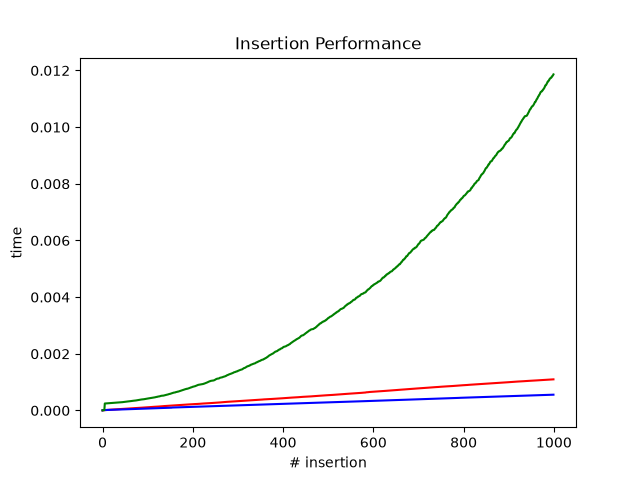
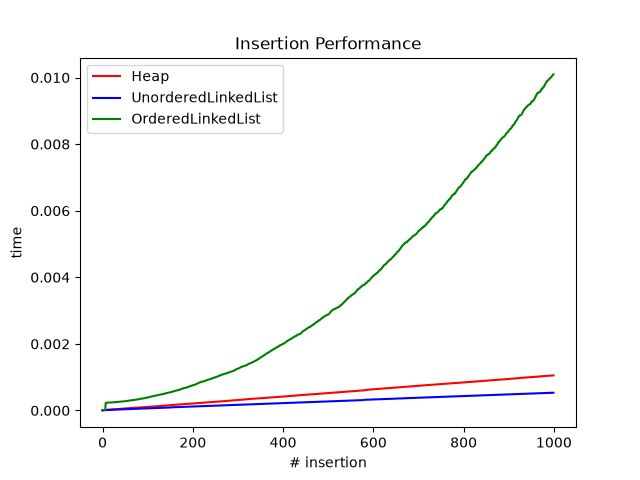
added legend to graph

diff --git a/PicchioniLabAlg.py b/PicchioniLabAlg.py
@@ -250,9 +250,8 @@ for e in test:
     max_heap.insert(e)
     end = timer()
     time_per_operation.append(end - start)
-print(len(number_of_operation))
-print(len(time_per_operation))
-plt.plot(number_of_operation, time_per_operation, "r")
+
+plt.plot(number_of_operation, time_per_operation, "r", label="Heap")
 plt.title("Insertion Performance")
 plt.xlabel("# insertion")
 plt.ylabel("time")
@@ -264,7 +263,7 @@ for e in test:
     unordered_list.insert(e)
     end = timer()
     time_per_operation.append(end - start)
-plt.plot(number_of_operation, time_per_operation, "b")
+plt.plot(number_of_operation, time_per_operation, "b", label="UnorderedLinkedList")
 
 ordered_list = OrderedLinkedList()
 time_per_operation = []
@@ -273,7 +272,7 @@ for e in test:
     ordered_list.insert(e)
     end = timer()
     time_per_operation.append(end - start)
-plt.plot(number_of_operation, time_per_operation, "g")
+plt.plot(number_of_operation, time_per_operation, "g", label="OrderedLinkedList")
 
-
+plt.legend(loc="upper left")
 plt.savefig("max_heap.png")
